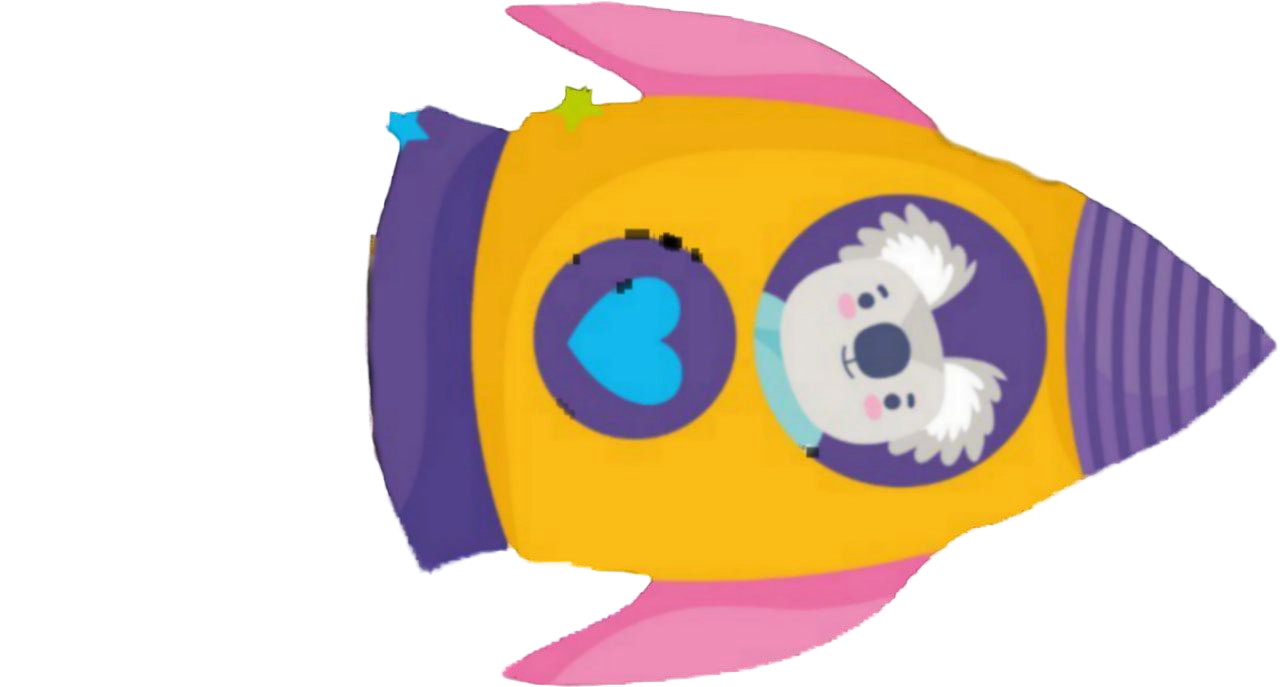
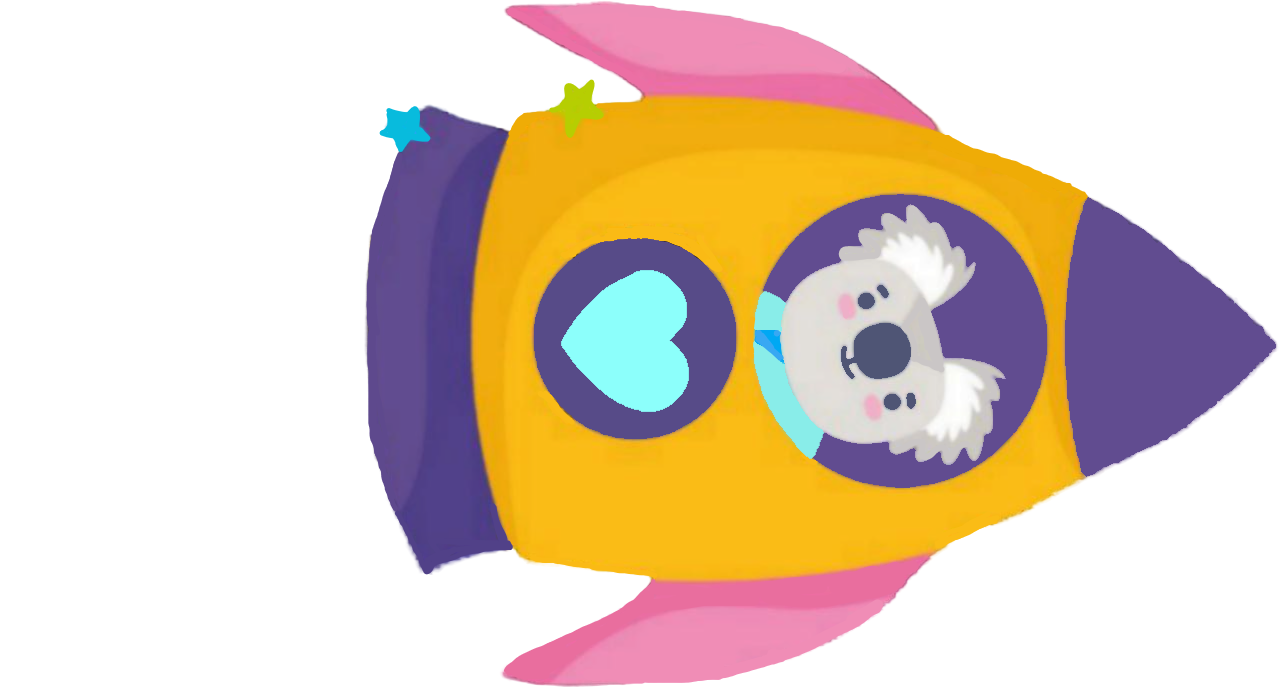
две ракеты разных цветов

diff --git a/ракеты.py b/ракеты.py
@@ -12,13 +12,20 @@ if __name__ == '__main__':
     ship_image1 = pygame.image.load("Корабль_1.png").convert_alpha()
     ship_image2 = pygame.image.load("Корабль_2.png").convert_alpha()
     ship_image3 = pygame.image.load("Корабль_3.png").convert_alpha()
+    ship_image1_1 = pygame.image.load("Корабль_1_1.png").convert_alpha()
+    ship_image2_1 = pygame.image.load("Корабль_2_1.png").convert_alpha()
+    ship_image3_1 = pygame.image.load("Корабль_3_1.png").convert_alpha()
 
     ship_image1 = pygame.transform.scale(ship_image1, (150, 100))
     ship_image2 = pygame.transform.scale(ship_image2, (150, 100))
     ship_image3 = pygame.transform.scale(ship_image3, (150, 100))
+    ship_image1_1 = pygame.transform.scale(ship_image1_1, (150, 100))
+    ship_image2_1 = pygame.transform.scale(ship_image2_1, (150, 100))
+    ship_image3_1 = pygame.transform.scale(ship_image3_1, (150, 100))
+
 
     ship = ship_image1.get_rect(center=(screen_width // 2, screen_height // 2))
-    ship2 = ship_image1.get_rect(center=(screen_width // 4, screen_height // 4))
+    ship2 = ship_image1_1.get_rect(center=(screen_width // 4, screen_height // 4))
 
     ship_side = 0
     ship_side2 = 0
@@ -31,6 +38,7 @@ if __name__ == '__main__':
     ship_y_offset2 = 0
 
     current_image = ship_image1
+    current_image_2 = ship_image1_1
     image_index = 0
     last_switch_time = time.time()
     switch_interval = 0.01
@@ -61,14 +69,14 @@ if __name__ == '__main__':
                 image_index = 1 - image_index
                 last_switch_time = time.time()
 
-            current_image_2 = [ship_image2, ship_image3][image_index]
+            current_image_2 = [ship_image2_1, ship_image3_1][image_index]
 
             ship_x_offset2 += ship_speed * math.cos(math.radians(ship_side2))
             ship_y_offset2 -= ship_speed * math.sin(math.radians(ship_side2))
             ship_x_offset2 %= screen_width
             ship_y_offset2 %= screen_height
         else:
-            current_image_2 = ship_image1
+            current_image_2 = ship_image1_1
             ship_side2 += spin_speed
 
         screen.fill((0, 0, 0))
@@ -82,12 +90,14 @@ if __name__ == '__main__':
         y = ship.centery + ship_y_offset
         x_draw = x % screen_width
         y_draw = y % screen_height
-        if x < 0: x_draw += screen_width
-        if y < 0: y_draw += screen_height
+        if x < 0:
+            x_draw += screen_width
+        if y < 0:
+            y_draw += screen_height
         rotated_rect = rotated_ship.get_rect(center=(x_draw, y_draw))
         screen.blit(rotated_ship, rotated_rect)
 
-        rotated_ship2 = pygame.transform.rotate(current_image, ship_side2)
+        rotated_ship2 = pygame.transform.rotate(current_image_2, ship_side2)
         x2 = ship2.centerx + ship_x_offset2
         y2 = ship2.centery + ship_y_offset2
         x_draw2 = x2 % screen_width
